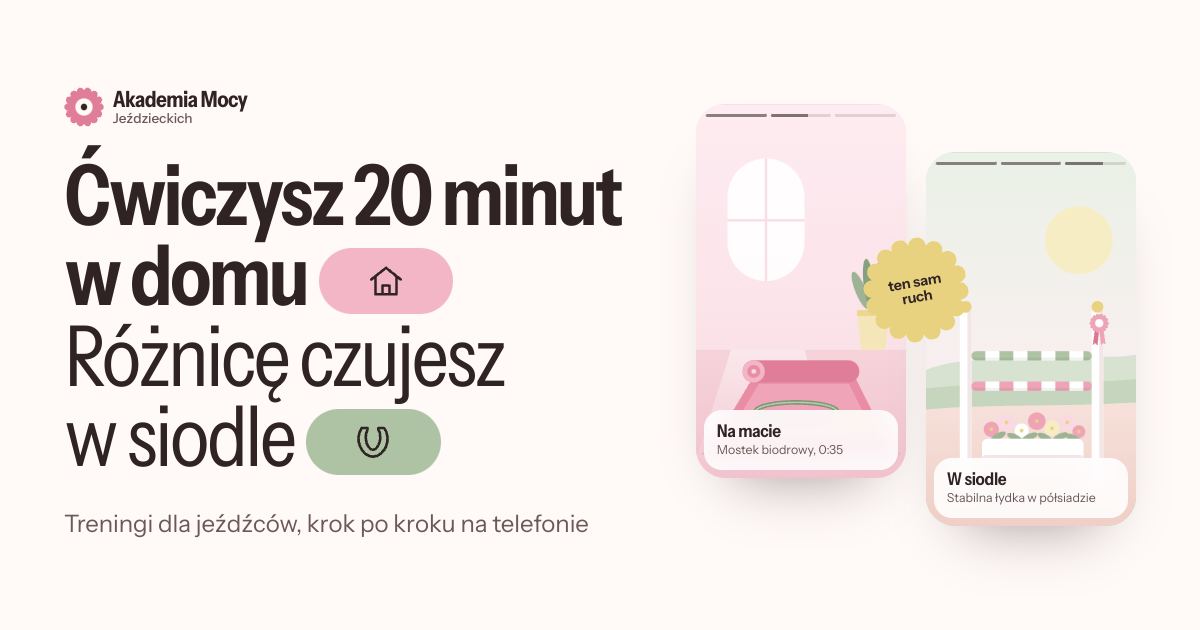
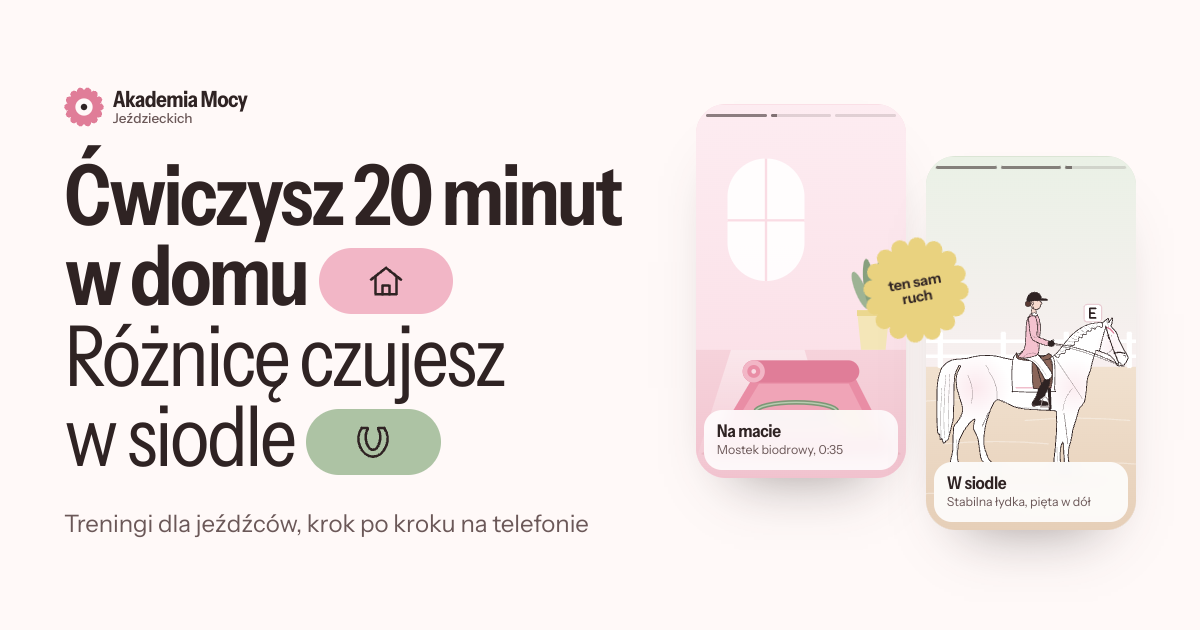
konie

diff --git a/index.html b/index.html
@@ -157,8 +157,8 @@
           <figure class="story story--siodlo">
             <div class="story__bars" aria-hidden="true"><i class="is-done"></i><i class="is-done"></i><i class="is-run"></i></div>
             <div class="story__top" aria-hidden="true"><svg class="brand__mark" viewBox="0 0 40 40" aria-hidden="true" focusable="false"><path d="M20.00 3.50A3.67 3.67 0 0 1 27.16 5.13A3.67 3.67 0 0 1 32.90 9.71A3.67 3.67 0 0 1 36.09 16.33A3.67 3.67 0 0 1 36.09 23.67A3.67 3.67 0 0 1 32.90 30.29A3.67 3.67 0 0 1 27.16 34.87A3.67 3.67 0 0 1 20.00 36.50A3.67 3.67 0 0 1 12.84 34.87A3.67 3.67 0 0 1 7.10 30.29A3.67 3.67 0 0 1 3.91 23.67A3.67 3.67 0 0 1 3.91 16.33A3.67 3.67 0 0 1 7.10 9.71A3.67 3.67 0 0 1 12.84 5.13A3.67 3.67 0 0 1 20.00 3.50Z" fill="#E07D98"/><circle cx="20" cy="20" r="8.6" fill="#FFF9F8"/><circle cx="20" cy="20" r="3.2" fill="#2F2323"/></svg><span>Akademia Mocy</span><em>W&nbsp;siodle</em></div>
-            <img src="assets/img/kadr-siodlo.svg" width="360" height="640" alt="Kadr z ujeżdżalni. Tu będzie ten sam ruch pokazany w siodle.">
-            <figcaption class="story__cap"><strong>W&nbsp;siodle</strong><span>Stabilna łydka w&nbsp;półsiadzie</span></figcaption>
+            <img src="assets/img/kadr-siodlo.svg" width="360" height="640" alt="Jeźdźczyni na koniu na ujeżdżalni: stabilna łydka i pięta w dół.">
+            <figcaption class="story__cap"><strong>W&nbsp;siodle</strong><span>Stabilna łydka, pięta w&nbsp;dół</span></figcaption>
           </figure>
           <span class="badge badge--butter hero__same" aria-hidden="true">ten sam<br>ruch</span>
         </div>
@@ -173,6 +173,7 @@
           <h2 class="h2" id="w-siodle-tytul">Co poczujesz w&nbsp;siodle</h2>
           <p class="lead">Każde ćwiczenie ma jeden cel: lepszą jazdę. Zaczynamy od tego, co jeźdźcy mówią najczęściej.</p>
           <p class="feel__horse">A&nbsp;Twój koń dostaje jeźdźca, który mu nie przeszkadza.</p>
+          <img class="feel__kon" src="assets/img/konie/kon.svg" width="596" height="486" alt="" loading="lazy">
         </header>
         <ul class="fixes">
           <li class="fix"><span class="fix__was">„Ucieka mi łydka”</span><span class="fix__now"><svg class="ico"><use href="#i-check"/></svg>Stabilna łydka, także w&nbsp;półsiadzie</span></li>
@@ -192,7 +193,7 @@
           <h2 class="h2" id="jak-tytul">Jak to działa</h2>
           <p class="lead">Jak na parkurze: przeszkoda po przeszkodzie, w&nbsp;swoim tempie.</p>
         </header>
-        <div class="course-wrap"><svg class="course" viewBox="0 0 1100 220" aria-hidden="true" focusable="false"><path d="M20 148C80 148 120 92 183 92C290 92 430 150 550 150C670 150 800 86 917 86C1000 86 1040 132 1080 132" fill="none" stroke="#E07D98" stroke-width="3" stroke-linecap="round" stroke-dasharray="0.5 11"/><g transform="translate(183 92)"><rect x="-5" y="-34" width="10" height="68" rx="5" fill="#F2B6C6"/><rect x="-5" y="-34" width="10" height="17" rx="3" fill="#FFFFFF"/><rect x="-5" y="17" width="10" height="17" rx="3" fill="#FFFFFF"/><rect x="-9" y="-44" width="18" height="12" rx="3" fill="#2F2323"/><rect x="-9" y="32" width="18" height="12" rx="3" fill="#2F2323"/><circle cx="34" cy="-40" r="17" fill="#FFFFFF"/><text x="34" y="-34.5" text-anchor="middle" class="course__num">1</text></g><g transform="translate(550 150)"><rect x="-5" y="-34" width="10" height="68" rx="5" fill="#F2B6C6"/><rect x="-5" y="-34" width="10" height="17" rx="3" fill="#FFFFFF"/><rect x="-5" y="17" width="10" height="17" rx="3" fill="#FFFFFF"/><rect x="-9" y="-44" width="18" height="12" rx="3" fill="#2F2323"/><rect x="-9" y="32" width="18" height="12" rx="3" fill="#2F2323"/><circle cx="34" cy="-40" r="17" fill="#FFFFFF"/><text x="34" y="-34.5" text-anchor="middle" class="course__num">2</text></g><g transform="translate(917 86)"><rect x="-5" y="-34" width="10" height="68" rx="5" fill="#F2B6C6"/><rect x="-5" y="-34" width="10" height="17" rx="3" fill="#FFFFFF"/><rect x="-5" y="17" width="10" height="17" rx="3" fill="#FFFFFF"/><rect x="-9" y="-44" width="18" height="12" rx="3" fill="#2F2323"/><rect x="-9" y="32" width="18" height="12" rx="3" fill="#2F2323"/><circle cx="34" cy="-40" r="17" fill="#FFFFFF"/><text x="34" y="-34.5" text-anchor="middle" class="course__num">3</text></g><g transform="translate(20 148)"><circle r="7" fill="#2F2323"/><text x="0" y="-18" text-anchor="middle" class="course__label">Start</text></g><g transform="translate(1080 132)"><circle r="7" fill="#E07D98"/><text x="0" y="-18" text-anchor="middle" class="course__label">Meta</text></g></svg></div>
+        <div class="course-wrap"><svg class="course" viewBox="0 0 1100 220" aria-hidden="true" focusable="false"><path d="M20 148C80 148 120 92 183 92C290 92 430 150 550 150C670 150 800 86 917 86C1000 86 1040 132 1080 132" fill="none" stroke="#E07D98" stroke-width="3" stroke-linecap="round" stroke-dasharray="0.5 11"/><image class="course__kon" href="assets/img/konie/kon-jezdziec.svg" x="36" y="22" width="118" height="112"/><g transform="translate(183 92)"><rect x="-5" y="-34" width="10" height="68" rx="5" fill="#F2B6C6"/><rect x="-5" y="-34" width="10" height="17" rx="3" fill="#FFFFFF"/><rect x="-5" y="17" width="10" height="17" rx="3" fill="#FFFFFF"/><rect x="-9" y="-44" width="18" height="12" rx="3" fill="#2F2323"/><rect x="-9" y="32" width="18" height="12" rx="3" fill="#2F2323"/><circle cx="34" cy="-40" r="17" fill="#FFFFFF"/><text x="34" y="-34.5" text-anchor="middle" class="course__num">1</text></g><g transform="translate(550 150)"><rect x="-5" y="-34" width="10" height="68" rx="5" fill="#F2B6C6"/><rect x="-5" y="-34" width="10" height="17" rx="3" fill="#FFFFFF"/><rect x="-5" y="17" width="10" height="17" rx="3" fill="#FFFFFF"/><rect x="-9" y="-44" width="18" height="12" rx="3" fill="#2F2323"/><rect x="-9" y="32" width="18" height="12" rx="3" fill="#2F2323"/><circle cx="34" cy="-40" r="17" fill="#FFFFFF"/><text x="34" y="-34.5" text-anchor="middle" class="course__num">2</text></g><g transform="translate(917 86)"><rect x="-5" y="-34" width="10" height="68" rx="5" fill="#F2B6C6"/><rect x="-5" y="-34" width="10" height="17" rx="3" fill="#FFFFFF"/><rect x="-5" y="17" width="10" height="17" rx="3" fill="#FFFFFF"/><rect x="-9" y="-44" width="18" height="12" rx="3" fill="#2F2323"/><rect x="-9" y="32" width="18" height="12" rx="3" fill="#2F2323"/><circle cx="34" cy="-40" r="17" fill="#FFFFFF"/><text x="34" y="-34.5" text-anchor="middle" class="course__num">3</text></g><g transform="translate(20 148)"><circle r="7" fill="#2F2323"/><text x="0" y="-18" text-anchor="middle" class="course__label">Start</text></g><g transform="translate(1080 132)"><circle r="7" fill="#E07D98"/><text x="0" y="-18" text-anchor="middle" class="course__label">Meta</text></g></svg></div>
         <ol class="steps">
           <li class="step">
             <span class="step__mark" aria-hidden="true"><svg class="mini-fence" viewBox="0 0 44 44" aria-hidden="true" focusable="false"><rect x="17" y="4" width="10" height="36" rx="5" fill="#F2B6C6"/><rect x="17" y="4" width="10" height="9" rx="3" fill="#FFFFFF"/><rect x="17" y="31" width="10" height="9" rx="3" fill="#FFFFFF"/><rect x="13" y="0" width="18" height="7" rx="2" fill="#2F2323"/><rect x="13" y="37" width="18" height="7" rx="2" fill="#2F2323"/></svg><b>1</b></span>
@@ -403,7 +404,7 @@
     </section>
 
     <!-- 9. Cennik -->
-    <section class="band band--pink" id="cennik" aria-labelledby="cennik-tytul">
+    <section class="band band--pink band--wzor" id="cennik" aria-labelledby="cennik-tytul">
       <div class="wrap">
         <header class="section-head section-head--row">
           <h2 class="h2" id="cennik-tytul">Cennik</h2>

diff --git a/js/strefa.js b/js/strefa.js
@@ -262,6 +262,7 @@
     for (var n = 1; n <= p.liczba; n++) {
       var stan = p.wpisy[n] ? 'done' : (n === p.biezaca ? 'now' : 'next');
       var li = el('li', 'sz-strip__item is-' + stan);
+      if (stan === 'now') { li.appendChild(konik()); ol.classList.add('ma-konia'); }
       var a = el('a', 'sz-strip__link');
       a.href = linkPrzegladu(k, n);
       a.setAttribute('aria-label', 'Przeszkoda ' + n + (stan === 'done' ? ', zaliczona' : (stan === 'now' ? ', tu jesteś' : ', przed Tobą')));
@@ -270,6 +271,7 @@
       ol.appendChild(li);
     }
     var fin = el('li', 'sz-strip__item sz-strip__item--proba is-' + st.stan);
+    if (p.wszystkie) { fin.appendChild(konik()); ol.classList.add('ma-konia'); }
     var af = el('a', 'sz-strip__link');
     af.href = 'proba.html';
     af.setAttribute('aria-label', 'Próba Mocy, ' + ({ zablokowana: 'zablokowana', gotowa: 'gotowa', czeka: 'drugie podejście wkrótce', zaliczona: 'zaliczona', brak: 'wkrótce' }[st.stan] || ''));
@@ -377,6 +379,36 @@
       (stan === 'zaliczona' ? '<path d="M-6 0 L-1.5 4.5 L7 -4.5" fill="none" stroke="' + kolory[2] + '" stroke-width="3.2" stroke-linecap="round" stroke-linejoin="round"/>' : '<circle r="4.5" fill="#2F2323"/>') +
       '</g>';
   }
+  /* Koń z jeźdźczynią stoi na prostym odcinku przed bieżącą przeszkodą (albo przed Próbą Mocy),
+     przodem w kierunku jazdy, i wjeżdża na miejsce. Punkty układu to [x, y, rząd, kierunek]. */
+  function konNaMapie(p, pkt, u) {
+    var idx = (!p.wszystkie && p.biezaca >= 1 && p.biezaca <= p.liczba) ? p.biezaca - 1 : pkt.length - 1;
+    var q = pkt[idx];
+    var prev = idx === 0 ? [u.start.x, u.start.y, 0, 1] : pkt[idx - 1];
+    var kier = q[3] || 1;
+    var odstep = (idx === pkt.length - 1 ? 44 : 26) * u.skala;        /* przerwa do numeru, „Tu jesteś” albo rozety */
+    var miejsce;
+    if (prev[2] === q[2]) {
+      miejsce = Math.abs(q[0] - prev[0]) - 22 * u.skala;              /* prosta od poprzedniej przeszkody */
+    } else {
+      var krawedz = prev[3] > 0 ? u.prawo : u.lewo;                    /* tu ścieżka wychodzi z zawrotu */
+      var banda = kier > 0 ? q[0] - 34 : (u.W - 34) - q[0];
+      miejsce = Math.min(Math.abs(q[0] - krawedz) + u.zawrot * 0.8, banda);
+    }
+    var w = Math.max(56 * u.skala, Math.min(120 * u.skala, miejsce - odstep));
+    var dyst = odstep + w / 2;
+    var h = w * 566 / 596;
+    var x = Math.round(q[0] - kier * dyst), y = Math.round(q[1] + 10 * u.skala);
+    return '<g class="sz-kon-poz" transform="translate(' + x + ' ' + y + ')" aria-hidden="true"><g class="sz-kon" style="--od:' + (-kier * 70) + 'px">' +
+      '<g transform="scale(' + kier + ' 1)"><g class="sz-kon__cialo"><image href="assets/img/konie/kon-jezdziec.svg" x="' + (-w / 2).toFixed(1) + '" y="' + (-h).toFixed(1) + '" width="' + w.toFixed(1) + '" height="' + h.toFixed(1) + '"/></g></g></g></g>';
+  }
+
+  function konik() {
+    var img = el('img', 'sz-strip__kon');
+    img.src = 'assets/img/konie/kon-jezdziec.svg'; img.alt = ''; img.width = 48; img.height = 46;
+    return img;
+  }
+
   function svgParkur(k, p, st, nazwaUkladu) {
     var u = uklad(nazwaUkladu, p.liczba + 1);
     var pkt = u.punkty;
@@ -429,6 +461,7 @@
     s += rozetaSvg(k.level, stanProby);
     s += '<text y="84" class="sz-map__label sz-map__label--proba" text-anchor="middle">Próba Mocy</text>';
     s += '</g></a>';
+    s += konNaMapie(p, pkt, u);
     s += '</svg>';
     return s;
   }

diff --git a/_zrodla/strony/index.html b/_zrodla/strony/index.html
@@ -38,8 +38,8 @@ body_klasa: strona-glowna
           <figure class="story story--siodlo">
             <div class="story__bars" aria-hidden="true"><i class="is-done"></i><i class="is-done"></i><i class="is-run"></i></div>
             <div class="story__top" aria-hidden="true">{{> grafiki/znak.svg}}<span>Akademia Mocy</span><em>W siodle</em></div>
-            <img src="assets/img/kadr-siodlo.svg" width="360" height="640" alt="Kadr z ujeżdżalni. Tu będzie ten sam ruch pokazany w siodle.">
-            <figcaption class="story__cap"><strong>W siodle</strong><span>Stabilna łydka w półsiadzie</span></figcaption>
+            <img src="assets/img/kadr-siodlo.svg" width="360" height="640" alt="Jeźdźczyni na koniu na ujeżdżalni: stabilna łydka i pięta w dół.">
+            <figcaption class="story__cap"><strong>W siodle</strong><span>Stabilna łydka, pięta w dół</span></figcaption>
           </figure>
           <span class="badge badge--butter hero__same" aria-hidden="true">ten sam<br>ruch</span>
         </div>
@@ -54,6 +54,7 @@ body_klasa: strona-glowna
           <h2 class="h2" id="w-siodle-tytul">Co poczujesz w siodle</h2>
           <p class="lead">Każde ćwiczenie ma jeden cel: lepszą jazdę. Zaczynamy od tego, co jeźdźcy mówią najczęściej.</p>
           <p class="feel__horse">A Twój koń dostaje jeźdźca, który mu nie przeszkadza.</p>
+          <img class="feel__kon" src="assets/img/konie/kon.svg" width="596" height="486" alt="" loading="lazy">
         </header>
         <ul class="fixes">
           <li class="fix"><span class="fix__was">„Ucieka mi łydka”</span><span class="fix__now"><svg class="ico"><use href="#i-check"/></svg>Stabilna łydka, także w półsiadzie</span></li>
@@ -226,7 +227,7 @@ body_klasa: strona-glowna
     </section>
 
     <!-- 9. Cennik -->
-    <section class="band band--pink" id="cennik" aria-labelledby="cennik-tytul">
+    <section class="band band--pink band--wzor" id="cennik" aria-labelledby="cennik-tytul">
       <div class="wrap">
         <header class="section-head section-head--row">
           <h2 class="h2" id="cennik-tytul">Cennik</h2>

diff --git a/css/style.css b/css/style.css
@@ -2360,3 +2360,35 @@ button.menu__item {
 
 /* Etap 5: link do aktywacji vouchera w cenniku */
 .voucher__aktywuj { margin-left: 0.75rem; font-size: var(--fs-sm); }
+
+/* 14. Konie ------------------------------------------------------------------------------------------- */
+/* Koń przy „Co poczujesz w siodle” */
+.feel__kon { width: min(100%, 400px); height: auto; margin-top: clamp(0.25rem, 1.5vw, 1.25rem); }
+@media (max-width: 959px) { .feel__kon { width: min(80%, 340px); justify-self: center; } }
+/* Blada sylwetka konia wychodzi zza kadru w zachęcie na końcu stron */
+.cta { overflow: hidden; }
+.cta::after {
+  content: "";
+  position: absolute;
+  left: -2%;
+  bottom: -16%;
+  width: min(560px, 82vw);
+  aspect-ratio: 596 / 486;
+  background: url(../assets/img/konie/kon-sylwetka.svg) left bottom / contain no-repeat;
+  opacity: 0.85;
+  pointer-events: none;
+}
+.cta__inner { z-index: 1; }
+/* Wzór z konikami, podkowami i rozetami w pasie cennika */
+.band--wzor {
+  background-image: linear-gradient(rgba(249, 220, 227, 0.52), rgba(249, 220, 227, 0.52)), url(../assets/img/konie/wzor-konie.svg);
+  background-size: auto, 200px 180px;
+}
+/* Znak z głową konia przy siostrzanej marce */
+.sister__kon { display: grid; place-items: center; aspect-ratio: 1; border-radius: 50%; background: var(--ballet); transform: rotate(-6deg); box-shadow: 0 12px 26px -16px rgba(47, 35, 35, 0.5); }
+.sister__kon img { width: 74%; height: auto; }
+/* Koń na planie parkuru: lekki kłus w miejscu */
+@media (prefers-reduced-motion: no-preference) {
+  .course__kon { animation: kon-klus 0.5s ease-in-out infinite alternate; }
+}
+@keyframes kon-klus { from { transform: translateY(0); } to { transform: translateY(-2.5px); } }

diff --git a/css/strefa.css b/css/strefa.css
@@ -722,3 +722,14 @@
 }
 .sz-progtab[aria-pressed="true"] { background: var(--cocoa); color: var(--on-dark); box-shadow: none; }
 
+
+/* Konie w strefie: koń na mapie parkuru i nad bieżącą przeszkodą w panelu */
+.sz-kon-poz { pointer-events: none; }
+@media (prefers-reduced-motion: no-preference) {
+  .sz-kon { animation: kon-wjazd 1.3s cubic-bezier(0.2, 0.7, 0.2, 1) both 0.2s; }
+  .sz-kon__cialo { animation: kon-klus 0.42s ease-in-out 0.2s 4 alternate; }
+}
+@keyframes kon-wjazd { from { transform: translateX(var(--od, -60px)); opacity: 0; } 30% { opacity: 1; } to { transform: none; opacity: 1; } }
+@keyframes kon-klus { from { transform: translateY(0); } to { transform: translateY(-3px); } }
+.sz-strip__list.ma-konia { padding-top: 3.4rem; }
+.sz-strip__kon { position: absolute; left: 50%; bottom: calc(100% - 2px); width: 48px; height: auto; transform: translateX(-56%); pointer-events: none; }

diff --git a/_zrodla/strony/o-akademii.html b/_zrodla/strony/o-akademii.html
@@ -93,7 +93,7 @@ body_klasa: strona-o-akademii
             <p class="lead">Naturalne smaczki dla koni bez mąki, odpadów paszowych i kolorowego lukru. Ta sama twórczyni i te same wartości: świadomie, naturalnie, z troską o konia.</p>
             <a class="btn btn--dark" href="https://gotsforhorses.pl" target="_blank" rel="noopener">Odwiedź GOT’S for Horses</a>
           </div>
-          <span class="badge badge--butter sister__badge" aria-hidden="true">dla<br>konia</span>
+          <span class="sister__badge sister__kon" aria-hidden="true"><img src="assets/img/konie/glowa-konia.svg" alt="" width="210" height="210"></span>
         </div>
       </div>
     </section>

diff --git a/o-akademii.html b/o-akademii.html
@@ -213,7 +213,7 @@
             <p class="lead">Naturalne smaczki dla koni bez mąki, odpadów paszowych i&nbsp;kolorowego lukru. Ta sama twórczyni i&nbsp;te same wartości: świadomie, naturalnie, z&nbsp;troską o&nbsp;konia.</p>
             <a class="btn btn--dark" href="https://gotsforhorses.pl" target="_blank" rel="noopener">Odwiedź GOT’S for Horses</a>
           </div>
-          <span class="badge badge--butter sister__badge" aria-hidden="true">dla<br>konia</span>
+          <span class="sister__badge sister__kon" aria-hidden="true"><img src="assets/img/konie/glowa-konia.svg" alt="" width="210" height="210"></span>
         </div>
       </div>
     </section>

diff --git a/_zrodla/strony/cennik.html b/_zrodla/strony/cennik.html
@@ -18,7 +18,7 @@ body_klasa: strona-cennik
       </div>
     </section>
 
-    <section class="band band--pink" aria-label="Oferta">
+    <section class="band band--pink band--wzor" aria-label="Oferta">
       <div class="wrap">
 {{> cennik-karty.html}}
         <p class="note"><svg class="ico"><use href="#i-prezent"/></svg>Ceny w demo są przykładowe. Pierwszy trening każdego programu sprawdzisz za darmo.</p>

diff --git a/cennik.html b/cennik.html
@@ -138,7 +138,7 @@
       </div>
     </section>
 
-    <section class="band band--pink" aria-label="Oferta">
+    <section class="band band--pink band--wzor" aria-label="Oferta">
       <div class="wrap">
         <div class="prices">
           <article class="price">

diff --git a/README.md b/README.md
@@ -129,6 +129,14 @@ Dane: `data/sklep.js` (produkty, ceny, kody, voucher demo). Konta i dostępy pro
 
 Do sprawdzenia z prawnikiem przed startem: treść zgody na natychmiastowy dostęp i utratę prawa odstąpienia, zasady zwrotu voucherów, dokument zakupu (paragon albo faktura).
 
+## Konie na stronie
+
+Pliki są w `assets/img/konie/`: koń w kresce (`kon.svg`), koń z jeźdźczynią (`kon-jezdziec.svg`), blada sylwetka do tła (`kon-sylwetka.svg`), znak z głową konia (`glowa-konia.svg`) i kafelek wzoru (`wzor-konie.svg`).
+
+Gdzie są użyte: kadr „W siodle” w hero i obrazek udostępniania (`assets/img/kadr-siodlo.svg`, `assets/og.png`), koń przy „Co poczujesz w siodle”, koń na starcie planu parkuru, wzór w pasie cennika (strona główna i cennik), sylwetka w zachęcie na końcu stron, znak przy GOT'S for Horses (O Akademii), koń z jeźdźczynią na mapie parkuru w strefie (wjeżdża do bieżącej przeszkody) i nad bieżącą przeszkodą w panelu. Ruch koni wyłącza się, gdy ktoś ma w systemie ograniczenie animacji.
+
+Podstawa sylwetki konia: rysunek „Horse” autorstwa Andreasa Preussa (marauder) z openclipart, udostępniony jako CC0 (bez ograniczeń praw autorskich), dostępny w zestawie danych scikit-image. Kreska, anatomia, grzywa, ogon, cieniowanie, jeźdźczyni, siodło i ogłowie to rysunek własny.
+
 ## Jak zmieniać strony
 
 Menu, stopka i head są wspólne dla wszystkich stron, więc trzymamy je w jednym miejscu, a gotowe pliki `.html` składa skrypt.
